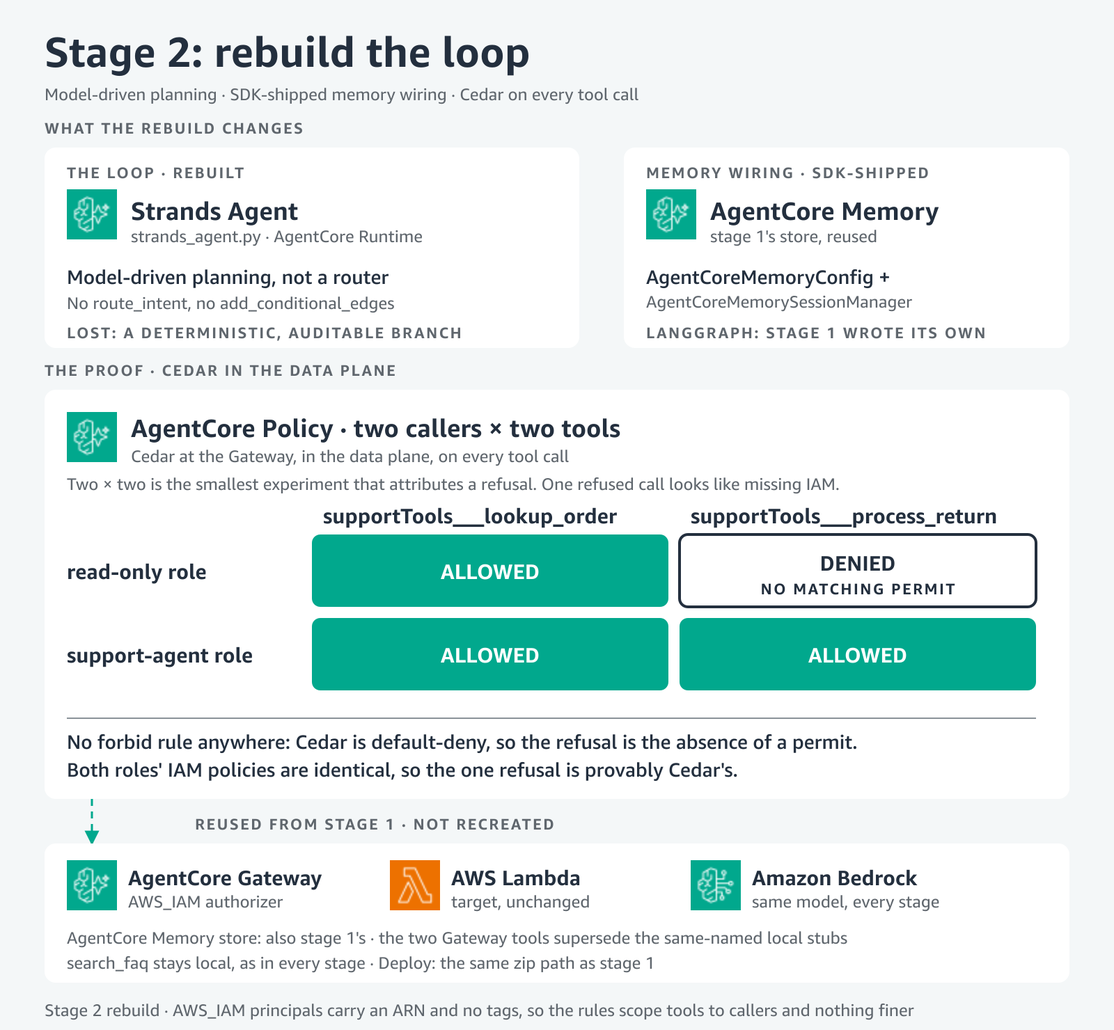
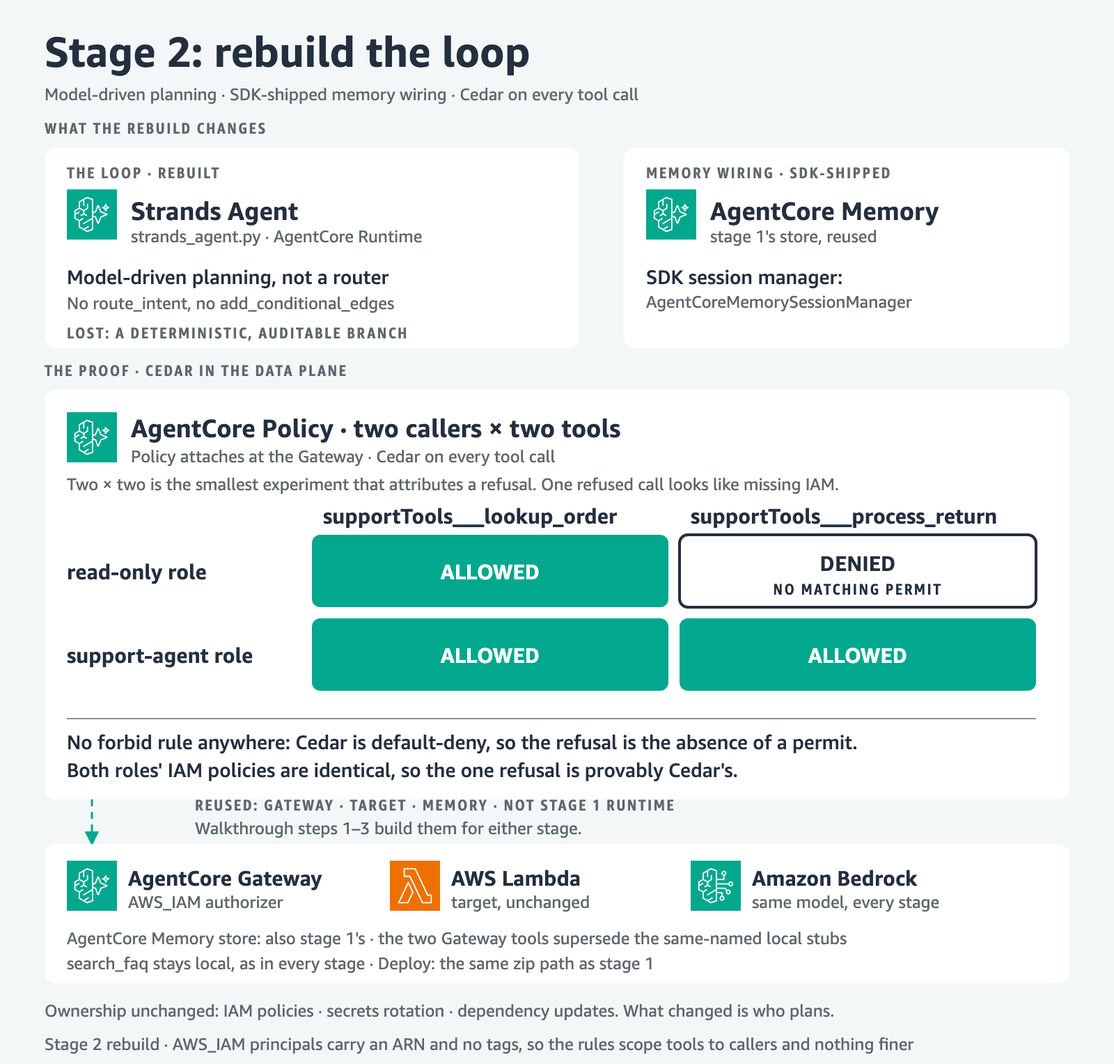
docs: sync the README and figures to the rewritten post
Re-cut all three architecture diagrams and bring the README into agreement
with the post it accompanies. The stage vocabulary is now used throughout,
replacing the mixed rung and stage wording that disagreed with the code's own
stage0/stage1/stage2 layout and its --stage flag.

Alt text for all three figures is regenerated from the shipped images rather
than edited from the previous descriptions, which had drifted far enough to
describe a matrix that no longer exists. The line-count claim now points at
examples/validation/verify_diff_claim.py instead of hardcoding numbers, so it
cannot go stale again.

Exclude the figure HTML sources and the render script from the sample. The
diagrams ship as PNGs under images/; their sources live outside this repo, so
committing the render script would hand a reader a script that references
files they do not have.

diff --git a/README.md b/README.md
@@ -6,34 +6,34 @@ This repository contains sample code for the AWS blog post "Migrating agentic wo
 
 ## Architecture
 
-One migration, read as a ladder of descending ownership — a recommended order, not a menu and not
-a mandatory chain. Two things move independently along it: how much of the layer underneath the
-agent you operate, and whose code plans the next step. Rung 0, self-hosted LangGraph: all ten
-operational burdens in the matrix are yours, and your `route_intent` plans. Rung 1, replatform:
-three of the ten stay yours, and your code still plans. Rung 2, rebuild: the same three stay
-yours — ownership does not change — but the model now plans instead of your router. Rung 3,
-handing the loop to the AgentCore harness: one stays yours, the model plans, and it is not
-demonstrated in this sample:
+One migration, read as a ladder of descending ownership. It's a recommended order rather than a
+menu, and nothing forces you down the whole chain. Two things move independently along it. One is
+how much of the layer underneath the agent you operate. The other is whose code plans the next
+step. At stage 0, self-hosted LangGraph, all ten operational burdens in the matrix are yours and
+your `route_intent` plans. Stage 1 replatforms, and three of the ten stay yours while your code
+still plans. Stage 2 rebuilds. The same three stay yours, because ownership does not change, but
+the model now plans instead of your router. Stage 3 hands the loop to the AgentCore harness, where
+one stays yours and the model plans. That last one isn't demonstrated in this sample:
 
-![Comparison matrix titled "The same agent. Less of it is yours to operate." Subtitle: three alternatives, choose who owns the orchestration loop. A band across the top names the baseline, self-hosted LangGraph, and states that one agent's purpose stays constant across all three paths: classify, route, escalate, three tools. An Amazon Bedrock AgentCore icon labels the section beneath it. Ten operational burdens run down the left column: VPC, WAF, IAM policies, secrets rotation, OS patching, dependency updates, auto-scaling rules, session isolation, checkpoint storage, and tool auth. Three columns then give each path's outcome for every burden. Replatform, marked shipped, adopts AgentCore Runtime, Gateway and Memory and reports seven transferred and three remaining. Rebuild, also marked shipped, changes the loop to model-driven planning and reports the same seven transferred and three remaining. In both, the seven transferred to AWS are VPC, WAF, OS patching, auto-scaling rules, session isolation, checkpoint storage and tool auth, and the three still yours are IAM policies, secrets rotation and dependency updates. The third column, handing the loop over to AgentCore, is marked not in this sample and per AWS docs, and reports nine transferred and one remaining: every burden shows a filled circle except IAM policies, which stays a filled square. A legend defines the two marks: a filled circle for transferred to AgentCore, and a filled square for still yours to operate.](images/agentcore-migration-architecture.png)
+![Comparison matrix titled "Migrating the sample LangGraph agent to AgentCore, stage by stage." A subtitle states that each stage is measured for what we stopped operating and who plans the next step, and a note beneath it adds that one variable moved at a time: stage 1 moved where the agent ran, stage 2 moved how it planned. A band across the top, marked unchanged at every stage, holds the agent itself: classify, route, escalate, three tools. Four numbered stage columns are grouped under three headings. Where we started holds stage 0, self-hosted LangGraph on compute we ran and patched, marked baseline, reporting ten still ours. What this post builds, labelled with an Amazon Bedrock AgentCore icon, holds two highlighted columns: stage 1, replatform, adopting Runtime, Gateway and Memory, marked walked in this post, reporting seven moved and three still ours; and stage 2, rebuild, where the loop becomes model-driven planning, also marked walked in this post, reporting the same seven moved and three still ours. Beyond this post holds stage 3, hand the loop over, where AgentCore runs it, marked documented only, reporting nine moved and one still ours. A row labelled who planned the next step reads our code at stage 0, our code at stage 1, the model at stage 2, and the model at stage 3. A row labelled what moves at this stage reads: nothing moved yet at stage 0, all ten ours, our router planned; seven moved to AWS at stage 1, the same three still ours, our router still planned; nothing operational moved at stage 2, the same three still ours, the model took over planning, and stage 2 runs standalone; two more would move at stage 3, secrets and dependencies, not built here. Ten operational burdens then run down the left as rows: VPC, WAF, IAM policies, secrets rotation, OS patching, dependency updates, auto-scaling rules, session isolation, checkpoint storage, and tool auth. Stage 0 shows a filled square on all ten. Stages 1 and 2 are identical to each other: filled circles on VPC, WAF, OS patching, auto-scaling rules, session isolation, checkpoint storage and tool auth, and filled squares on IAM policies, secrets rotation and dependency updates. Stage 3 shows filled circles on nine, with IAM policies the only square left. A legend defines the two marks: a filled circle for moved to AgentCore, and a filled square for still ours to operate. A footer reads that the counts are measured from the committed sample, not asserted.](images/agentcore-migration-architecture.png)
 
-This repository ships rungs 1 and 2. The order is recommended because rung 1 validates the move
-while your logic is unchanged — the same graph, router and prompts answer on AgentCore Runtime,
-which separates the infrastructure variable from the behaviour variable. Entering at rung 2 is
-how a team already committed to a rewrite uses this: `--stage 2` stands up the same gateway,
-target and memory itself — steps 1 to 3 of the [run order](#run-order) run for either stage, and
-none of them needs the stage-1 agent — and what that team skips is the entry-point diff and the
+This repository ships stages 1 and 2. The order is recommended because stage 1 validates the move
+while your logic is unchanged. The same graph, router and prompts answer on AgentCore Runtime,
+which separates the infrastructure variable from the behaviour variable. Entering at stage 2 is
+how a team already committed to a rewrite uses this. `--stage 2` stands up the same gateway, target
+and memory itself, because steps 1 to 3 of the [run order](#run-order) run for either stage and
+none of them needs the stage-1 agent. What that team skips is the entry-point diff and the
 before-and-after parity validation. Stage 1 replatforms the runtime and leaves the graph alone:
 
-![Architecture diagram titled "Stage 1: replatform the runtime." Subtitle: direct invocation, unchanged orchestration, partial tool migration. A band across the top, marked deploy time and not request path, traces source plus vendored dependencies as a zip, into Amazon S3 as agent.zip, into a CreateAgentRuntime call whose codeConfiguration points back at S3, ending at Runtime deployed; there is no container and no Amazon ECR anywhere along it. Below that, a band marked request path starts at a client application card that calls InvokeAgentRuntime with a runtimeSessionId of at least 33 characters and is marked direct call. One arrow runs from it straight into the Amazon Bedrock AgentCore Runtime card, described as serverless with one microVM per session, with no load balancer and no API Gateway in between. Inside the Runtime card, three boxes stack down the page. First, agent_runtime.py, holding BedrockAgentCoreApp with an @app.entrypoint function and mapping RequestContext.session_id to thread_id. Second, the LangGraph graph, marked imported, not rewritten, built by build_graph from stage 0, and noted as the same graph calling all three tools. Third, the tools, split in two: a box outlined in the accent color and marked local Python holds search_faq and states it stays in Runtime, while a box marked gateway-served holds supportTools___lookup_order and supportTools___process_return, so two of the three tools are served by Gateway and one is not. Four service cards sit down the right side. Amazon Bedrock, using ChatBedrockConverse, is marked did not move and already Bedrock. AgentCore Memory, reached from Runtime, is keyed on session_id plus actor_id and annotated as a custom 114-line saver. AgentCore Gateway speaks MCP over SigV4-signed calls with an AWS_IAM authorizer, and is reached from the gateway-served tool box. AWS Lambda is the Gateway target, receiving arguments as the raw event and the tool name in the client context. Along the bottom, an observability card carries the Amazon CloudWatch and AWS Distro for OpenTelemetry icons and reports Runtime logs, metrics, and traces. Beside it, an AgentCore Policy card is marked stage 2, not created in stage 1, and describes Cedar rules evaluated at Gateway on each tool call in the data plane, joined to Gateway by a dashed line. A footer line reads: stage 1 replatformed runtime, no load balancer, no API Gateway, no container, no Amazon ECR.](images/agentcore-replatform-architecture.png)
+![Architecture diagram titled "Stage 1: replatform the runtime." Subtitle: direct invocation, unchanged orchestration, partial tool migration. A band across the top, marked deploy time and not request path, traces source plus vendored dependencies as a zip, into Amazon S3 as agent.zip, into a CreateAgentRuntime call whose codeConfiguration points back at S3, ending at Runtime deployed; there is no container and no Amazon ECR anywhere along it. Below that, a band marked request path starts at a client application card that calls InvokeAgentRuntime with a runtimeSessionId of at least 33 characters and is marked direct call. One arrow runs from it straight into the Amazon Bedrock AgentCore Runtime card, described as serverless with one microVM per session, with no load balancer and no API Gateway in between. Inside the Runtime card, three boxes stack down the page. First, agent_runtime.py, holding BedrockAgentCoreApp with an @app.entrypoint function and mapping RequestContext.session_id to thread_id. Second, the LangGraph graph, marked imported, not rewritten, built by build_graph from stage 0, and noted as the same graph calling all three tools. Third, the tools, split in two: a box outlined in the accent color and marked local Python holds search_faq and states it stays in Runtime, while a box marked gateway-served holds supportTools___lookup_order and supportTools___process_return, so two of the three tools are served by Gateway and one is not. Four service cards sit down the right side. Amazon Bedrock, using ChatBedrockConverse, is marked did not move and already Bedrock. AgentCore Memory, reached from Runtime, is annotated AgentCoreMemorySaver, a first-party saver from langgraph-checkpoint-aws. AgentCore Gateway speaks MCP over SigV4-signed calls with an AWS_IAM authorizer, and is reached from the gateway-served tool box. AWS Lambda is the Gateway target, receiving arguments as the raw event and the tool name in the client context. Along the bottom, an observability card carries the Amazon CloudWatch and AWS Distro for OpenTelemetry icons and reports Runtime logs, metrics, and traces. Beside it, an AgentCore Policy card marked attaches to this gateway is noted as demonstrated at stage 2 and describes Cedar on each tool call in the data plane, joined to Gateway by a dashed line. A line above the footer records that stage 1 was validated by re-running the stage 0 baseline over the same three turns and comparing the tools that ran and the final state, and states that IAM policies, secrets rotation and dependency updates are still ours. A footer line reads: stage 1 replatformed runtime, no load balancer, no API Gateway, no container, no Amazon ECR.](images/agentcore-replatform-architecture.png)
 
 Stage 2 rebuilds the loop, for when the hand-written router is the thing holding you back:
 
-![Architecture diagram titled "Stage 2: rebuild the loop." Subtitle: model-driven planning, SDK-shipped memory wiring, Cedar on every tool call. The upper half, headed what the rebuild changes, holds two cards. The first, marked the loop, rebuilt, shows a Strands Agent running strands_agent.py on AgentCore Runtime, with model-driven planning rather than a router, no route_intent and no add_conditional_edges, and a note that what is lost is a deterministic, auditable branch. The second, marked memory wiring, SDK-shipped, shows AgentCore Memory reusing stage 1's store via AgentCoreMemoryConfig and AgentCoreMemorySessionManager, noting that for LangGraph stage 1 wrote its own. The lower half, headed the proof, Cedar in the data plane, holds AgentCore Policy described as two callers times two tools, evaluated at the Gateway in the data plane on every tool call, with a note that two by two is the smallest experiment that attributes a refusal because one refused call looks like missing IAM. A two by two table follows: a read-only role is allowed supportTools___lookup_order but denied supportTools___process_return for no matching permit, and a support-agent role is allowed both. Two lines state that no forbid rule exists anywhere because Cedar is default-deny, so the refusal is the absence of a permit, and that both roles' IAM policies are identical, so the one refusal is provably Cedar's. A final band marked reused from stage 1, not recreated shows AgentCore Gateway with its AWS_IAM authorizer, AWS Lambda as an unchanged target, and Amazon Bedrock as the same model in every stage, adding that the Memory store is also stage 1's, the two Gateway tools supersede the same-named local stubs, search_faq stays local as in every stage, and deploy uses the same zip path as stage 1. A footer notes that AWS_IAM principals carry an ARN and no tags, so the rules scope tools to callers and nothing finer.](images/agentcore-rebuild-architecture.png)
+![Architecture diagram titled "Stage 2: rebuild the loop." Subtitle: model-driven planning, SDK-shipped memory wiring, Cedar on every tool call. The upper half, headed what the rebuild changes, holds two cards. The first, marked the loop, rebuilt, shows a Strands Agent running strands_agent.py on AgentCore Runtime, with model-driven planning rather than a router, no route_intent and no add_conditional_edges, and a note that what is lost is a deterministic, auditable branch. The second, marked memory wiring, SDK-shipped, shows AgentCore Memory reusing stage 1's store, with the SDK session manager named as AgentCoreMemorySessionManager. The lower half, headed the proof, Cedar in the data plane, holds AgentCore Policy described as two callers times two tools, evaluated at the Gateway in the data plane on every tool call, with a note that two by two is the smallest experiment that attributes a refusal because one refused call looks like missing IAM. A two by two table follows: a read-only role is allowed supportTools___lookup_order but denied supportTools___process_return for no matching permit, and a support-agent role is allowed both. Two lines state that no forbid rule exists anywhere because Cedar is default-deny, so the refusal is the absence of a permit, and that both roles' IAM policies are identical, so the one refusal is provably Cedar's. A dashed arrow leads down to a final band whose label lists what is reused, the Gateway, the target and Memory but not the stage 1 runtime, and notes that walkthrough steps 1 to 3 build them for either stage; the band shows AgentCore Gateway with its AWS_IAM authorizer, AWS Lambda as an unchanged target, and Amazon Bedrock as the same model in every stage, adding that the Memory store is also stage 1's, the two Gateway tools supersede the same-named local stubs, search_faq stays local as in every stage, and deploy uses the same zip path as stage 1. One footer line states that ownership is unchanged, IAM policies, secrets rotation and dependency updates, and that what changed is who plans. A second footer line notes that AWS_IAM principals carry an ARN and no tags, so the rules scope tools to callers and nothing finer.](images/agentcore-rebuild-architecture.png)
 
 ## Overview
 
-One LangGraph customer-support agent goes through all three stages, so each rung is a diff
+One LangGraph customer-support agent goes through all three stages, so each stage is a diff
 against the same starting point rather than a separate demo:
 
 - **Stage 0, the agent you already have** (`examples/stage0_langgraph/`): a compiled `StateGraph`,
@@ -42,13 +42,13 @@ against the same starting point rather than a separate demo:
 - **Stage 1, replatform** (`examples/stage1_replatform/`): keep the agent, replace what surrounds
   it. Graph, router, prompts and tool bodies are imported unchanged. Runtime hosts the process,
   Gateway fronts two of the three tools, and AgentCore Memory holds the conversation state.
-  `deploy_runtime.py` is what puts it there: a zip in Amazon S3, with pip as the only build tool.
+  `deploy_runtime.py` is what puts it there, as a zip in Amazon S3, with pip as the only build tool.
   See [Deploying to Runtime](#deploying-to-runtime).
 - **Stage 2, rebuild** (`examples/stage2_rebuild/`): the same agent on the
   [Strands Agents SDK](https://github.com/strands-agents/harness-sdk). The router gives way to a
   model-driven loop, and Cedar rules in Policy in AgentCore sit over the gateway's tool calls.
 
-The post describes the final rung, handing the orchestration loop to the AgentCore harness. There is
+The post describes the final stage, handing the orchestration loop to the AgentCore harness. There is
 no sample code for it here. `examples/validation/verify_diff_claim.py` measures the stage 0 → stage 1
 cost from the files on disk rather than asserting it, so you can re-check the post's numbers.
 
@@ -106,20 +106,20 @@ tests/                              # Offline suite; fakes for Bedrock, MCP, Mem
 Not all of these are needed at once, and the order below is the order they start to matter:
 
 - Python 3.12, and a clone. That is the whole of what steps 1 to 3 need, because the test
-  suite runs offline, with no AWS account. `setup.sh` accepts any Python from 3.10, and the offline
-  steps run on it; 3.12 is the version everything else here names — `.python-version`, the
-  `Dockerfile`, and the `PYTHON_3_12` runtime the deploy creates. The pair that has to match is the
-  vendored wheels and that named runtime, not your local interpreter — `deploy_runtime.py` pins
-  both sides of it — so running 3.12 locally just means one version everywhere.
+  suite runs offline, with no AWS account. `setup.sh` accepts any Python from 3.10 and the offline
+  steps run on it. 3.12 is the version everything else here names, in `.python-version`, in the
+  `Dockerfile`, and in the `PYTHON_3_12` runtime the deploy creates. The pair that has to match is
+  the vendored wheels and that named runtime, not your local interpreter, and `deploy_runtime.py`
+  pins both sides of it. So running 3.12 locally just means one version everywhere.
 - An [AWS account](https://aws.amazon.com/free/) with [Amazon Bedrock](https://aws.amazon.com/bedrock/)
   model access enabled, and credentials. Needed from step 4 onwards, which is the first step that calls
   AWS.
 - The [AWS CLI](https://docs.aws.amazon.com/cli/latest/userguide/getting-started-install.html), needed
   by one script only: `examples/gateway/lambda_target/deploy.sh`. Everything else uses boto3 from the
   virtual environment.
-- Agents hosted on AgentCore Runtime are instrumented automatically — no OpenTelemetry package, no
-  `OTEL_*` environment variables — but viewing their spans and traces has a one-time per-account
-  prerequisite: enable
+- AgentCore Runtime instruments the agents it hosts for you. No OpenTelemetry package, no `OTEL_*`
+  environment variables. Viewing their spans and traces does have a one-time per-account
+  prerequisite, so enable
   [CloudWatch Transaction Search](https://docs.aws.amazon.com/bedrock-agentcore/latest/devguide/observability-get-started.html),
   or the traces the stage-1 diagram shows cannot be seen at all.
 
@@ -149,7 +149,7 @@ pip install -r requirements.txt
 ```
 
 3. Run the test suite. **No credentials, and it creates nothing.** The chat model, the gateway, the
-   memory service and the Cedar evaluator are faked; everything else is real:
+   memory service and the Cedar evaluator are faked. Everything else is real:
 
 ```bash
 source .venv/bin/activate
@@ -157,7 +157,7 @@ python -m unittest discover -s tests -v
 ```
 
 The suite is `unittest`, and that command needs nothing beyond `requirements.txt`. `pytest tests/ -q`
-runs it too and prints less, but pytest is not a declared dependency, so `./setup.sh` does not install
+runs it too and prints less, but pytest isn't a declared dependency, so `./setup.sh` does not install
 it.
 
 4. Run the stage-0 agent. This is the agent before any migration, and the last step that creates
@@ -173,7 +173,7 @@ python -m examples.stage0_langgraph.run_local
 ```
 
 It holds two turns on one `thread_id` and answers the second without being told the order number
-again. You are watching the in-process checkpointer. A third turn then escalates without reaching
+again. You're watching the in-process checkpointer. A third turn then escalates without reaching
 the model's tool loop.
 
 5. Then work through [Run order](#run-order) for the migration itself. **Everything from here creates
@@ -252,7 +252,7 @@ which the service creates on the runtime's first log line. `--teardown` deletes 
 four.
 
 `--stage 2` rebuilds the agent on Strands and hardens it. It needs the same two
-ARNs because it stands on the same foundation: the gateway, target and memory
+ARNs because it stands on the same foundation. The gateway, target and memory
 are created by steps 1 to 3 whichever stage runs, so on a clean account
 `--stage 2` builds them itself, and after a stage-1 run it reuses stage 1's
 (never its runtime). Stage 2 creates a Cedar policy engine of its own, and `--teardown` deletes
@@ -282,10 +282,10 @@ python -m examples.stage1_replatform.deploy_runtime \
   --memory-id MigratedAgentMemory-xxxx
 ```
 
-`agent_runtime.py` is deployed unmodified; the gateway URL and memory id reach it as Runtime
+`agent_runtime.py` is deployed unmodified. The gateway URL and memory id reach it as Runtime
 environment variables. `--stage 1` of the walkthrough runs this for you.
 
-Two things about the zip are not obvious, and each costs a failed deploy to learn:
+Two things about the zip aren't obvious, and each costs a failed deploy to learn:
 
 - **Cross-compile the dependencies.** Runtime is ARM64, so a plain `pip install --target` on macOS
   or an x86 machine produces the wrong binaries and the deploy fails with a message about
@@ -293,11 +293,11 @@ Two things about the zip are not obvious, and each costs a failed deploy to lear
   `--platform manylinux2014_aarch64 --python-version 3.12 --only-binary=:all:`. Those are pip flags, not
   a container. The version has to match the runtime the deploy names, and omitting it vendors wheels for
   whichever interpreter you happen to be running.
-- **A `requirements.txt` inside the zip is inert.** Nothing installs it; the dependencies have to be
-  vendored into the archive. **The error message for getting this wrong points away from the
+- **A `requirements.txt` inside the zip is inert.** Nothing installs it, and the dependencies have
+  to be vendored into the archive. **The error message for getting this wrong points away from the
   cause:** a missing module surfaces as `Runtime initialization time exceeded ... initialization
   completes in 30s`, a timeout message for an `ImportError`, with the real reason visible only in
-  CloudWatch. Vendor the dependency; do not tune the timeout.
+  CloudWatch. Vendor the dependency. Do not tune the timeout.
 
 `deploy_runtime.py` does both of these, and its error paths name the cause and the fix rather than
 repeating the service's message.
@@ -311,7 +311,7 @@ repeating the service's message.
 
 If you created AWS resources while following the examples, delete them to avoid ongoing charges.
 
-Passing `--teardown` to `examples/run_walkthrough.py` deletes what the walkthrough created, in the order the dependencies require: the agent runtime first, then the gateway target, then the gateway once target deletion has finished, then the memory resource, then the Cedar policies and the policy engine holding them, then the two demo IAM roles stage 2 creates. Last come the three things the runtime leaves behind: its artifact bucket, its execution role and its log group.
+Passing `--teardown` to `examples/run_walkthrough.py` deletes what the walkthrough created, in the order the dependencies require. The agent runtime goes first, then the gateway target, then the gateway once target deletion has finished. Then the memory resource, then the Cedar policies and the policy engine holding them, then the two demo IAM roles stage 2 creates. Last come the three things the runtime leaves behind: its artifact bucket, its execution role and its log group.
 
 Deleting a gateway that still has a target attached returns `ValidationException`, and it does so for a while after `ListGatewayTargets` already returns nothing, so the teardown retries the delete and confirms completion with `GetGateway`. The runtime goes first and the bucket and role go last because the runtime holds a reference to the zip and assumes the role. The log group is last of all: deleting it while the runtime is still alive only means its next log line recreates it.
 
@@ -330,7 +330,7 @@ To remove resources by hand, search on the names the scripts use:
    - the agent runtime `MigratedAgentRuntime`, in the [Amazon Bedrock AgentCore console](https://console.aws.amazon.com/bedrock/) or with `DeleteAgentRuntime`;
    - the S3 bucket `migrated-agent-runtime-<account-id>`, which holds `agent.zip` and has to be emptied before it will delete;
    - the IAM role `MigratedAgentRuntimeRole`, whose inline `RuntimeExecution` policy has to go first;
-   - the CloudWatch log group `/aws/bedrock-agentcore/runtimes/<runtime-id>-DEFAULT`, which `DeleteAgentRuntime` does not remove. Copy the runtime id before deleting the runtime: afterwards the id is no longer discoverable and the group is the one resource with nothing left pointing at it.
+   - the CloudWatch log group `/aws/bedrock-agentcore/runtimes/<runtime-id>-DEFAULT`, which `DeleteAgentRuntime` does not remove. Copy the runtime id before deleting the runtime. Afterwards the id is no longer discoverable, and the group is the one resource with nothing left pointing at it.
 
 ## Security
 
